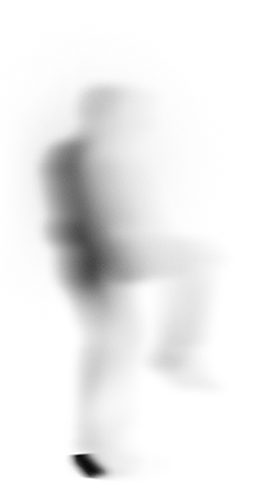
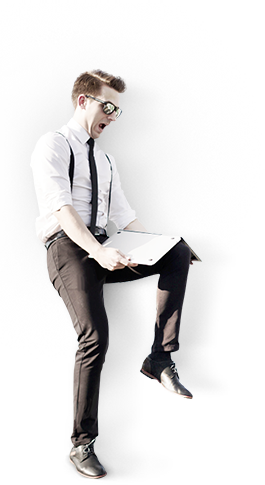
section-6 tablet fin

Changed region(s): [[0.1208, 0.1237, 0.7547, 0.9897]]

diff --git a/build/css/styles.min.css b/build/css/styles.min.css
@@ -1,2 +1,2 @@
 /*! normalize.css v8.0.0 | MIT License | github.com/necolas/normalize.css */
-html{line-height:1.15;-webkit-text-size-adjust:100%}body{margin:0}h1{font-size:2em;margin:.67em 0}hr{box-sizing:content-box;height:0;overflow:visible}code,kbd,pre,samp{font-family:monospace,monospace;font-size:1em}a{background-color:transparent}abbr[title]{border-bottom:none;-webkit-text-decoration:underline dotted;text-decoration:underline dotted}b,strong{font-weight:bolder}small{font-size:80%}sub,sup{font-size:75%;line-height:0;position:relative;vertical-align:baseline}sub{bottom:-.25em}sup{top:-.5em}img{border-style:none}button,input,optgroup,select,textarea{font-family:inherit;font-size:100%;line-height:1.15;margin:0}button,input{overflow:visible}button,select{text-transform:none}[type=button],[type=reset],[type=submit],button{-webkit-appearance:button}[type=button]::-moz-focus-inner,[type=reset]::-moz-focus-inner,[type=submit]::-moz-focus-inner,button::-moz-focus-inner{border-style:none;padding:0}[type=button]:-moz-focusring,[type=reset]:-moz-focusring,[type=submit]:-moz-focusring,button:-moz-focusring{outline:1px dotted ButtonText}fieldset{padding:.35em .75em .625em}legend{color:inherit;display:table;max-width:100%;white-space:normal}progress{vertical-align:baseline}textarea{overflow:auto}[type=checkbox],[type=radio],legend{box-sizing:border-box;padding:0}[type=number]::-webkit-inner-spin-button,[type=number]::-webkit-outer-spin-button{height:auto}[type=search]{-webkit-appearance:textfield;outline-offset:-2px}[type=search]::-webkit-search-decoration{-webkit-appearance:none}::-webkit-file-upload-button{-webkit-appearance:button;font:inherit}details{display:block}summary{display:list-item}[hidden],template{display:none}@font-face{font-family:'Acrom';src:url(../fonts/Acrom-Regular.woff) format("woff");font-weight:400;font-style:normal}@font-face{font-family:'Acrom';src:url(../fonts/Acrom-Bold.woff) format("woff");font-weight:700;font-style:normal}@font-face{font-family:'Acrom';src:url(../fonts/Acrom-Thin.woff) format("woff");font-weight:100;font-style:normal}@font-face{font-family:'Acrom';src:url(../fonts/Acrom-Light.woff) format("woff");font-weight:300;font-style:normal}@font-face{font-family:'Acrom';src:url(../fonts/Acrom-ExtraBold.woff) format("woff");font-weight:800;font-style:normal}@font-face{font-family:'Acrom';src:url(../fonts/Acrom-Medium.woff) format("woff");font-weight:500;font-style:normal}.six-headerbox{max-width:330px;padding-bottom:32px}.six-headerbox__header{font-size:18px;line-height:24px;color:#000;font-family:"Acrom";font-weight:800;text-transform:uppercase;padding-left:131px;padding-bottom:14.5px}.six-headerbox__text{display:inline-block;width:229px;font-size:14px;line-height:20px;color:#000;font-family:"Acrom";font-weight:600;letter-spacing:-.3px}.six-headerbox__wrapper{width:266px;display:flex;justify-content:space-between;flex-direction:row;flex-wrap:wrap;margin-left:94px}.six-headerbox__line{margin-top:12px;display:inline-block;height:2px;width:20px;background-color:#000}.six-listbox__list{max-width:399px;padding-left:87px;list-style-type:square}.six-listbox__list__item{padding-left:8px}.six-listbox__list__sign,.six-listbox__list__text{font-size:13px;line-height:21px;font-family:"Acrom"}.six-listbox__list__sign{font-weight:900;text-transform:uppercase;color:#000}.six-listbox__list__text{color:#3f4144;padding-bottom:9px}*{box-sizing:border-box;margin:0;padding:0}.container{max-width:480px;margin:0 auto}@media (min-width:768px){.container{max-width:768px}}@media (min-width:1200px){.container{max-width:1200px}}
+html{line-height:1.15;-webkit-text-size-adjust:100%}body{margin:0}h1{font-size:2em;margin:.67em 0}hr{box-sizing:content-box;height:0;overflow:visible}code,kbd,pre,samp{font-family:monospace,monospace;font-size:1em}a{background-color:transparent}abbr[title]{border-bottom:none;-webkit-text-decoration:underline dotted;text-decoration:underline dotted}b,strong{font-weight:bolder}small{font-size:80%}sub,sup{font-size:75%;line-height:0;position:relative;vertical-align:baseline}sub{bottom:-.25em}sup{top:-.5em}img{border-style:none}button,input,optgroup,select,textarea{font-family:inherit;font-size:100%;line-height:1.15;margin:0}button,input{overflow:visible}button,select{text-transform:none}[type=button],[type=reset],[type=submit],button{-webkit-appearance:button}[type=button]::-moz-focus-inner,[type=reset]::-moz-focus-inner,[type=submit]::-moz-focus-inner,button::-moz-focus-inner{border-style:none;padding:0}[type=button]:-moz-focusring,[type=reset]:-moz-focusring,[type=submit]:-moz-focusring,button:-moz-focusring{outline:1px dotted ButtonText}fieldset{padding:.35em .75em .625em}legend{color:inherit;display:table;max-width:100%;white-space:normal}progress{vertical-align:baseline}textarea{overflow:auto}[type=checkbox],[type=radio],legend{box-sizing:border-box;padding:0}[type=number]::-webkit-inner-spin-button,[type=number]::-webkit-outer-spin-button{height:auto}[type=search]{-webkit-appearance:textfield;outline-offset:-2px}[type=search]::-webkit-search-decoration{-webkit-appearance:none}::-webkit-file-upload-button{-webkit-appearance:button;font:inherit}details{display:block}summary{display:list-item}[hidden],template{display:none}@font-face{font-family:'Acrom';src:url(../fonts/Acrom-Regular.woff) format("woff");font-weight:400;font-style:normal}@font-face{font-family:'Acrom';src:url(../fonts/Acrom-Bold.woff) format("woff");font-weight:700;font-style:normal}@font-face{font-family:'Acrom';src:url(../fonts/Acrom-Thin.woff) format("woff");font-weight:100;font-style:normal}@font-face{font-family:'Acrom';src:url(../fonts/Acrom-Light.woff) format("woff");font-weight:300;font-style:normal}@font-face{font-family:'Acrom';src:url(../fonts/Acrom-ExtraBold.woff) format("woff");font-weight:800;font-style:normal}@font-face{font-family:'Acrom';src:url(../fonts/Acrom-Medium.woff) format("woff");font-weight:500;font-style:normal}.six-section{margin-top:20px}.six-headerbox{max-width:330px;padding-bottom:32px}.six-headerbox__header{font-size:18px;line-height:24px;color:#000;font-family:"Acrom";font-weight:800;text-transform:uppercase;padding-left:131px;padding-bottom:14.5px}.six-headerbox__text{display:inline-block;width:229px;font-size:14px;line-height:20px;color:#000;font-family:"Acrom";font-weight:600;letter-spacing:-.3px}.six-headerbox__wrapper{width:266px;display:flex;justify-content:space-between;flex-direction:row;flex-wrap:wrap;margin-left:94px}.six-headerbox__line{margin-top:12px;display:inline-block;height:2px;width:20px;background-color:#000}.six-listbox__list{max-width:399px;padding-left:87px;list-style-type:square}.six-listbox__list__item{padding-left:8px}.six-listbox__list__sign,.six-listbox__list__text{font-size:13px;line-height:21px;font-family:"Acrom"}.six-listbox__list__sign{font-weight:900;text-transform:uppercase;color:#000}.six-listbox__list__text{color:#3f4144;padding-bottom:9px}*{box-sizing:border-box;margin:0;padding:0}.container{max-width:480px;margin:0 auto}@media (min-width:768px){.six-mainbox{max-width:679px;margin:0 auto;display:flex;flex-flow:row wrap;justify-content:space-between}.six-imagebox{width:250px;height:480px;margin-left:15px;background:url(../images/six-man.png);background-repeat:no-repeat;background-position:1px -51px;position:relative}.six-imagebox::after{content:'hard';font-size:140px;line-height:112px;text-transform:uppercase;color:#000;font-family:"Acrom";font-weight:800;opacity:.1;position:absolute;top:145px;left:-8px;z-index:-1;-webkit-transform:rotateZ(90deg);transform:rotateZ(90deg)}.six-textbox{max-width:344px}.six-headerbox{max-width:429px;padding-bottom:34px}.six-headerbox__header{font-size:27px;line-height:34px;padding-left:0;padding-bottom:11px;letter-spacing:-.1px}.six-headerbox__line{width:28px;height:3px;margin-top:5px}.six-headerbox__text{font-size:9px;line-height:13px;letter-spacing:-.05px;width:165px}.six-headerbox__wrapper{width:211px;margin-left:0}.six-listbox__list{max-width:399px;padding-left:16px}.six-listbox__list__item{padding-left:10px}.six-listbox__list__sign{font-size:9px;line-height:17px;padding-bottom:3px}.six-listbox__list__text{font-size:8px;line-height:13px;width:205px;padding-bottom:10px}.container{max-width:768px}}@media (min-width:1200px){.container{max-width:1200px}}

diff --git a/src/html/section-6.html b/src/html/section-6.html
@@ -1,35 +1,42 @@
 <div class="container">
-    <section>
-        <div class="six-headerbox">
-            <h3 class="six-headerbox__header">&#91 Однако предупреждаем_ &#93</h3>
-            <div class="six-headerbox__wrapper">
-                <div class="six-headerbox__line"></div>
-                <p class="six-headerbox__text">Получить навыки, нужные, чтобы зарабатывать в IT может быть долго и сложно….</p>
+    <section class="six-section">
+        <div class="six-mainbox">
+            <div class="six-imagebox">
+
             </div>
-        </div>
-        <div class="six-listbox">
-            <ul class="six-listbox__list">
-                <li class="six-listbox__list__item">
-                    <p class="six-listbox__list__sign">непонятный «программистский» язык</p>
-                    <p class="six-listbox__list__text">От которого у нормального человека просто пухнет голова  </p>
-                </li>
-                <li class="six-listbox__list__item">
-                    <p class="six-listbox__list__sign">неясно, что именно читать и учить</p>
-                    <p class="six-listbox__list__text">Чтобы не просто знать, но и получить ре&shyальную работу. </p>
-                </li>
-                <li class="six-listbox__list__item">
-                    <p class="six-listbox__list__sign">в Интернете полно теории</p>
-                    <p class="six-listbox__list__text">Однако теория не ведет к деньгам, она просто отнимает твое время</p>
-                </li>
-                <li class="six-listbox__list__item">
-                    <p class="six-listbox__list__sign">легко сдаться и все бросить </p>
-                    <p class="six-listbox__list__text">Без поддержки и источника мотивации</p>
-                </li>
-                <li class="six-listbox__list__item">
-                    <p class="six-listbox__list__sign">проще пойти раздавать листовки<br> на улице, чем продолжать </p>
-                    <p class="six-listbox__list__text">Если ты не видишь быстрого роста навыков и денежного «выхлопа»</p>
-                </li>
-            </ul>
+            <div class="six-textbox">
+                <div class="six-headerbox">
+                    <h3 class="six-headerbox__header">&#91 Однако предупреждаем_ &#93</h3>
+                    <div class="six-headerbox__wrapper">
+                        <div class="six-headerbox__line"></div>
+                        <p class="six-headerbox__text">Получить навыки, нужные, чтобы зарабатывать в IT может быть долго и сложно….</p>
+                    </div>
+                </div>
+                <div class="six-listbox">
+                    <ul class="six-listbox__list">
+                        <li class="six-listbox__list__item">
+                            <p class="six-listbox__list__sign">непонятный «программистский» язык</p>
+                            <p class="six-listbox__list__text">От которого у нормального человека просто пухнет голова  </p>
+                        </li>
+                        <li class="six-listbox__list__item">
+                            <p class="six-listbox__list__sign">неясно, что именно читать и учить</p>
+                            <p class="six-listbox__list__text">Чтобы не просто знать, но и получить ре&shyальную работу. </p>
+                        </li>
+                        <li class="six-listbox__list__item">
+                            <p class="six-listbox__list__sign">в Интернете полно теории</p>
+                            <p class="six-listbox__list__text">Однако теория не ведет к деньгам, она просто отнимает твое время</p>
+                        </li>
+                        <li class="six-listbox__list__item">
+                            <p class="six-listbox__list__sign">легко сдаться и все бросить </p>
+                            <p class="six-listbox__list__text">Без поддержки и источника мотивации</p>
+                        </li>
+                        <li class="six-listbox__list__item">
+                            <p class="six-listbox__list__sign">проще пойти раздавать листовки<br> на улице, чем продолжать </p>
+                            <p class="six-listbox__list__text">Если ты не видишь быстрого роста навыков и денежного «выхлопа» от изучения</p>
+                        </li>
+                    </ul>
+                </div>
+            </div>
         </div>
     </section>
 </div>

diff --git a/build/index.html b/build/index.html
@@ -1,1 +1,1 @@
-<!DOCTYPE html><html lang="en"><head><meta charset="UTF-8"><meta name="viewport" content="width=device-width,initial-scale=1"><meta http-equiv="X-UA-Compatible" content="ie=edge"><title>Placeholder title</title><link rel="stylesheet" href="./css/styles.min.css"></head><body><div class="container"><div class="container"><section><div class="six-headerbox"><h3 class="six-headerbox__header">&#91 Однако предупреждаем_ &#93</h3><div class="six-headerbox__wrapper"><div class="six-headerbox__line"></div><p class="six-headerbox__text">Получить навыки, нужные, чтобы зарабатывать в IT может быть долго и сложно….</p></div></div><div class="six-listbox"><ul class="six-listbox__list"><li class="six-listbox__list__item"><p class="six-listbox__list__sign">непонятный «программистский» язык</p><p class="six-listbox__list__text">От которого у нормального человека просто пухнет голова</p></li><li class="six-listbox__list__item"><p class="six-listbox__list__sign">неясно, что именно читать и учить</p><p class="six-listbox__list__text">Чтобы не просто знать, но и получить ре&shyальную работу.</p></li><li class="six-listbox__list__item"><p class="six-listbox__list__sign">в Интернете полно теории</p><p class="six-listbox__list__text">Однако теория не ведет к деньгам, она просто отнимает твое время</p></li><li class="six-listbox__list__item"><p class="six-listbox__list__sign">легко сдаться и все бросить</p><p class="six-listbox__list__text">Без поддержки и источника мотивации</p></li><li class="six-listbox__list__item"><p class="six-listbox__list__sign">проще пойти раздавать листовки<br>на улице, чем продолжать</p><p class="six-listbox__list__text">Если ты не видишь быстрого роста навыков и денежного «выхлопа»</p></li></ul></div></section></div></div><!-- <script src="js/scripts.min.js"></script> --></body></html>
+<!DOCTYPE html><html lang="en"><head><meta charset="UTF-8"><meta name="viewport" content="width=device-width,initial-scale=1"><meta http-equiv="X-UA-Compatible" content="ie=edge"><title>Placeholder title</title><link rel="stylesheet" href="./css/styles.min.css"></head><body><div class="container"><div class="container"><section class="six-section"><div class="six-mainbox"><div class="six-imagebox"></div><div class="six-textbox"><div class="six-headerbox"><h3 class="six-headerbox__header">&#91 Однако предупреждаем_ &#93</h3><div class="six-headerbox__wrapper"><div class="six-headerbox__line"></div><p class="six-headerbox__text">Получить навыки, нужные, чтобы зарабатывать в IT может быть долго и сложно….</p></div></div><div class="six-listbox"><ul class="six-listbox__list"><li class="six-listbox__list__item"><p class="six-listbox__list__sign">непонятный «программистский» язык</p><p class="six-listbox__list__text">От которого у нормального человека просто пухнет голова</p></li><li class="six-listbox__list__item"><p class="six-listbox__list__sign">неясно, что именно читать и учить</p><p class="six-listbox__list__text">Чтобы не просто знать, но и получить ре&shyальную работу.</p></li><li class="six-listbox__list__item"><p class="six-listbox__list__sign">в Интернете полно теории</p><p class="six-listbox__list__text">Однако теория не ведет к деньгам, она просто отнимает твое время</p></li><li class="six-listbox__list__item"><p class="six-listbox__list__sign">легко сдаться и все бросить</p><p class="six-listbox__list__text">Без поддержки и источника мотивации</p></li><li class="six-listbox__list__item"><p class="six-listbox__list__sign">проще пойти раздавать листовки<br>на улице, чем продолжать</p><p class="six-listbox__list__text">Если ты не видишь быстрого роста навыков и денежного «выхлопа» от изучения</p></li></ul></div></div></div></section></div></div><!-- <script src="js/scripts.min.js"></script> --></body></html>

diff --git a/src/sass/section-6.scss b/src/sass/section-6.scss
@@ -1,3 +1,6 @@
+.six-section{
+    margin-top: 20px;
+}
 .six-headerbox{
     max-width: 330px;
     padding-bottom: 32px;
@@ -61,5 +64,84 @@
     }
 }
 
-
+@media (min-width: 768px){
+    .six-mainbox{
+        max-width: 679px;
+        margin: 0 auto;
+        display: flex;
+        flex-flow: row wrap;
+        justify-content: space-between;
+    }
+    .six-imagebox{
+        width: 250px;
+        height: 480px;
+        margin-left: 15px;
+        background: url(../images/six-man.png);
+        background-repeat: no-repeat;
+        background-position: 1px -51px;
+        position: relative;
+    }
+    .six-imagebox::after{
+        content: 'hard';
+        font-size: 140px;
+        line-height: 112px;
+        text-transform: uppercase;
+        color: #000000;
+        font-family: "Acrom";
+        font-weight: 800;
+        opacity: .1;
+        position: absolute;
+        top: 145px;
+        left: -8px;
+        z-index: -1;
+        transform: rotateZ(90deg);
+    }
+    .six-textbox{
+        max-width: 344px;
+    }
+    .six-headerbox{
+        max-width: 429px;
+        padding-bottom: 34px;
+        &__header{
+            font-size: 27px;
+            line-height: 34px;
+            padding-left: 0px;
+            padding-bottom: 11px;
+            letter-spacing: -.1px;
+        }
+        &__line{
+            width: 28px;
+            height: 3px;
+            margin-top: 5px;
+        }
+        &__text{
+            font-size: 9px;
+            line-height: 13px;
+            letter-spacing: -.05px;
+            width: 165px;
+        }
+        &__wrapper{
+            width: 211px;
+            margin-left: 0px;
+        }
+        }
+    .six-listbox__list{
+        max-width: 399px;
+        padding-left: 16px;
+        &__item{
+            padding-left: 10px;
+        }
+        &__sign{
+            font-size: 9px;
+            line-height: 17px;
+            padding-bottom: 3px;
+        }
+        &__text{
+            font-size: 8px;
+            line-height: 13px;
+            width: 205px;
+            padding-bottom: 10px;
+    }
+}
+}
 

diff --git a/build/css/styles.css b/build/css/styles.css
@@ -417,6 +417,10 @@ template {
   font-style: normal;
 }
 
+.six-section {
+  margin-top: 20px;
+}
+
 .six-headerbox {
   max-width: 330px;
   padding-bottom: 32px;
@@ -500,6 +504,98 @@ template {
 }
 
 @media (min-width: 768px) {
+  .six-mainbox {
+    max-width: 679px;
+    margin: 0 auto;
+    display: flex;
+    flex-flow: row wrap;
+    justify-content: space-between;
+  }
+
+  .six-imagebox {
+    width: 250px;
+    height: 480px;
+    margin-left: 15px;
+    background: url(../images/six-man.png);
+    background-repeat: no-repeat;
+    background-position: 1px -51px;
+    position: relative;
+  }
+
+  .six-imagebox::after {
+    content: 'hard';
+    font-size: 140px;
+    line-height: 112px;
+    text-transform: uppercase;
+    color: #000000;
+    font-family: "Acrom";
+    font-weight: 800;
+    opacity: .1;
+    position: absolute;
+    top: 145px;
+    left: -8px;
+    z-index: -1;
+    -webkit-transform: rotateZ(90deg);
+    transform: rotateZ(90deg);
+  }
+
+  .six-textbox {
+    max-width: 344px;
+  }
+
+  .six-headerbox {
+    max-width: 429px;
+    padding-bottom: 34px;
+  }
+
+  .six-headerbox__header {
+    font-size: 27px;
+    line-height: 34px;
+    padding-left: 0px;
+    padding-bottom: 11px;
+    letter-spacing: -.1px;
+  }
+
+  .six-headerbox__line {
+    width: 28px;
+    height: 3px;
+    margin-top: 5px;
+  }
+
+  .six-headerbox__text {
+    font-size: 9px;
+    line-height: 13px;
+    letter-spacing: -.05px;
+    width: 165px;
+  }
+
+  .six-headerbox__wrapper {
+    width: 211px;
+    margin-left: 0px;
+  }
+
+  .six-listbox__list {
+    max-width: 399px;
+    padding-left: 16px;
+  }
+
+  .six-listbox__list__item {
+    padding-left: 10px;
+  }
+
+  .six-listbox__list__sign {
+    font-size: 9px;
+    line-height: 17px;
+    padding-bottom: 3px;
+  }
+
+  .six-listbox__list__text {
+    font-size: 8px;
+    line-height: 13px;
+    width: 205px;
+    padding-bottom: 10px;
+  }
+
   .container {
     max-width: 768px;
   }
